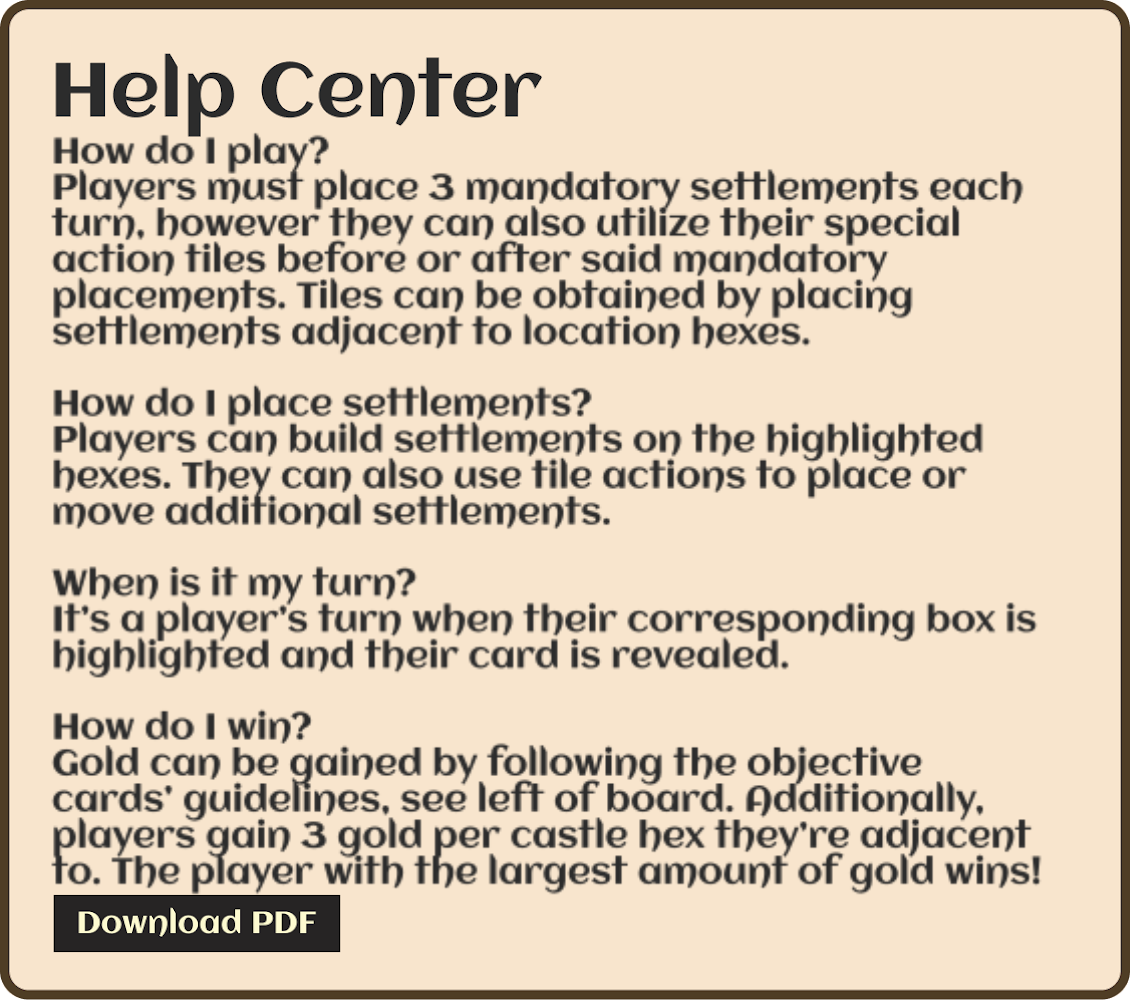
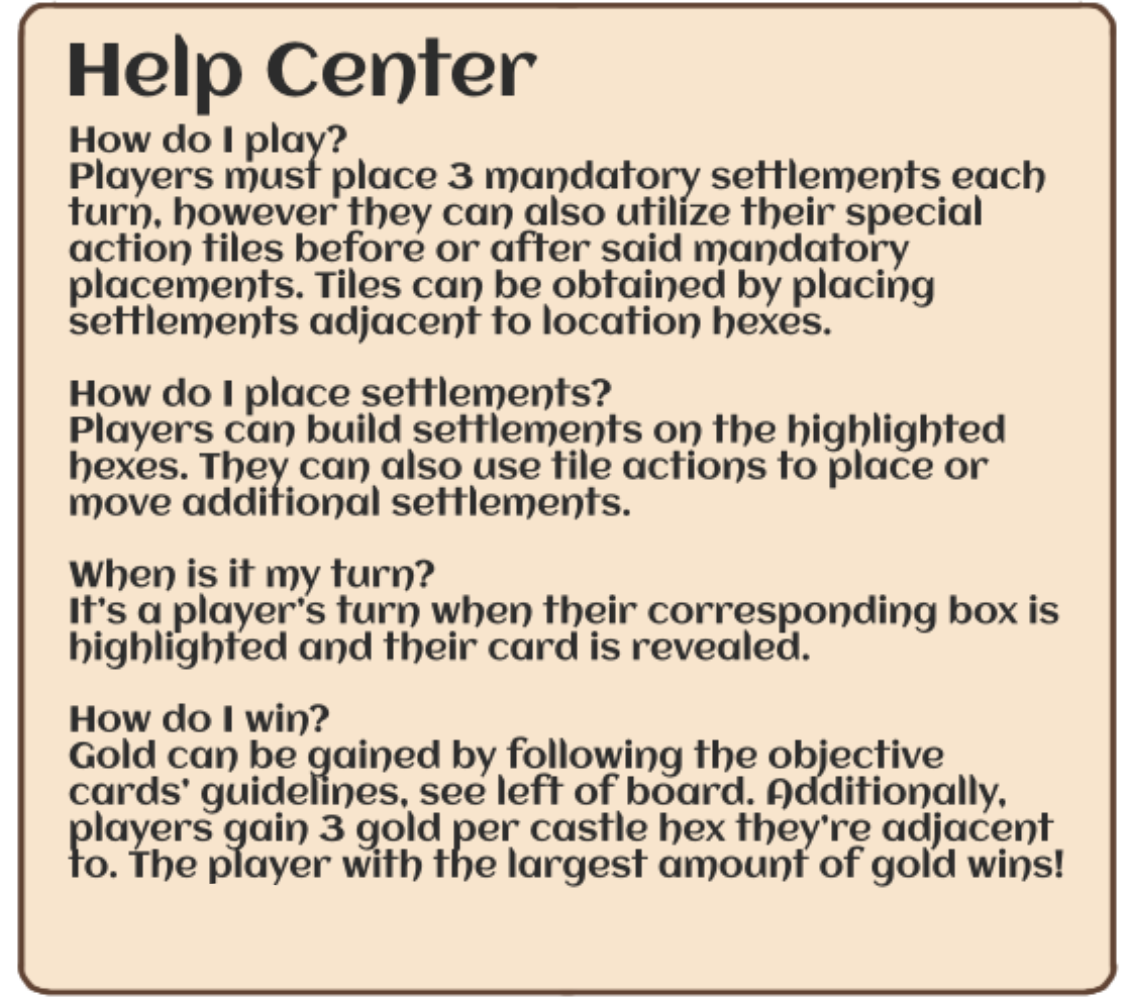
popUps

diff --git a/KBPanel.java b/KBPanel.java
@@ -18,7 +18,7 @@ public class KBPanel extends JPanel implements MouseListener, Runnable {
     private BufferedImage tFlwr, tGrs, tDes, tFor, tCnyn;
     private BufferedImage sOrcl, sHrse, sFrm, sBt, orcl, hrse, frm, bt;
     private BufferedImage scores, endBkg;
-    private BufferedImage infoUp, buttonX, darken;
+    private BufferedImage infoUp, infoUp2, buttonX, darken;
     private BufferedImage currCol, currTile;
     private BufferedImage colWhite, colYel;
     private ArrayList<BufferedImage> plyRects, settColors;
@@ -87,6 +87,7 @@ public class KBPanel extends JPanel implements MouseListener, Runnable {
             // sHrse = (1040, 93) 54 50, sOrcl = ()
 
             infoUp = ImageIO.read(KBPanel.class.getResource("/Pictures/helpPopUp.png"));
+            infoUp2 = ImageIO.read(KBPanel.class.getResource("/Pictures/helpPopUp2.png"));
             buttonX = ImageIO.read(KBPanel.class.getResource("/Pictures/buttonX.png"));
 
             currCol = ImageIO.read(KBPanel.class.getResource("/Pictures/currentColor.png"));
